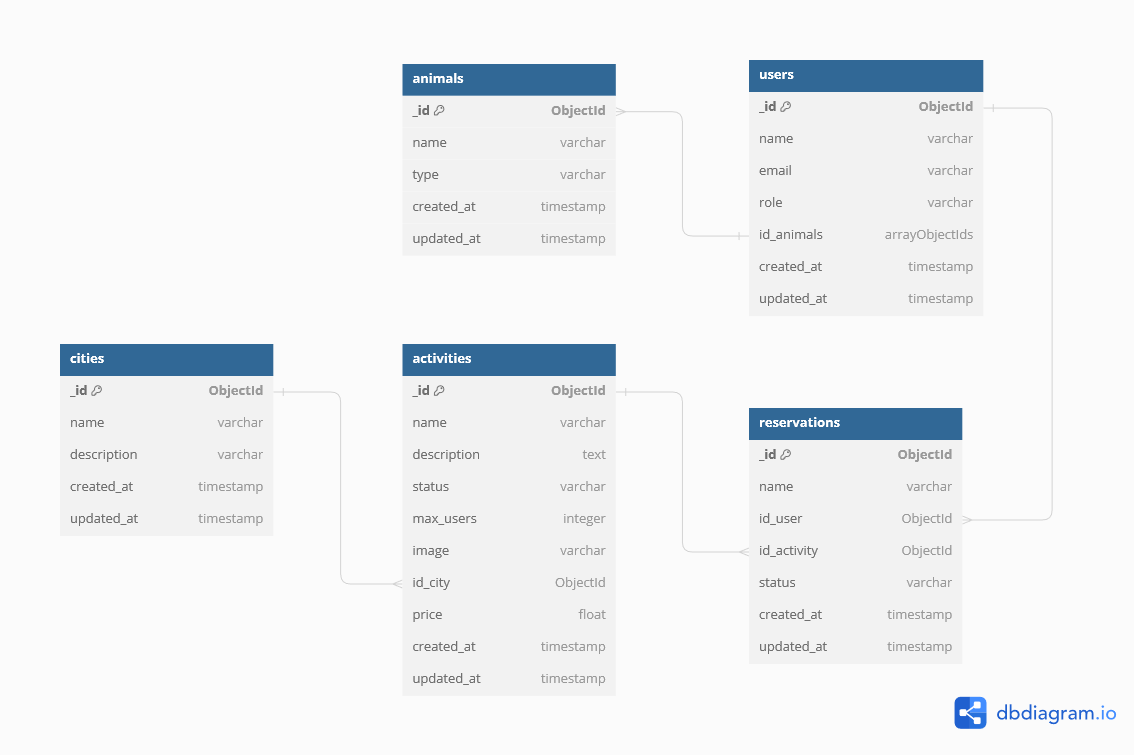
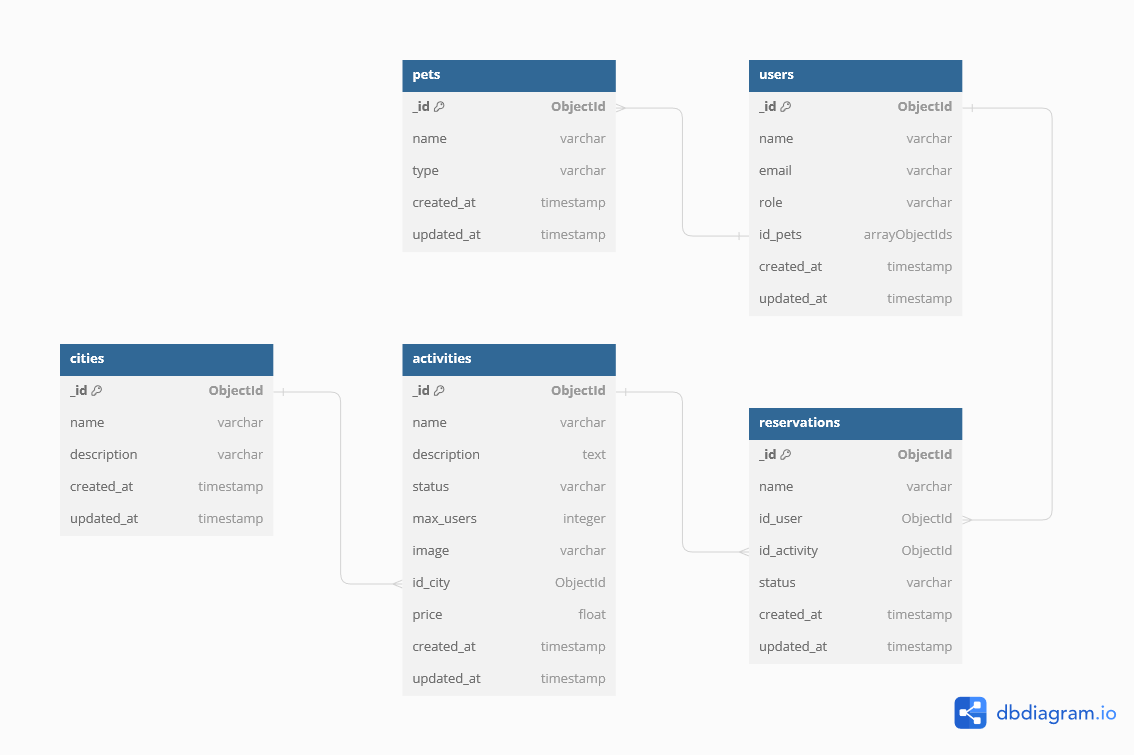
Pets and Activities CRUD tested

diff --git a/server/src/api/controllers/pet.controller.js b/server/src/api/controllers/pet.controller.js
@@ -1,0 +1,79 @@
+const Pet = require('../models/pet.model');
+
+const getAllPets = async (req, res) => {
+    try {
+        const allPets = await Pet.find(); // .populate('city_id')
+        res.status(200).json({ success: true, data: allPets });
+    } catch (error) {
+        res.status(400).json({ success: false, data: error.message });
+    }
+};
+
+const getPetbyId = async (req, res) => {
+    try {
+        const { id } = req.params;
+        const filteredPet = await Pet.findById(id); // .populate('city_id')
+        if (!filteredPet) {
+            res.status(202).json({ success: false, data: 'That ID does NOT exist.' });
+        } else {
+            res.status(200).json({ success: true, data: filteredPet });
+        }
+    } catch (error) {
+        res.status(400).json({ success: false, data: error.message });
+    }
+}
+
+const newPet = async (req, res) => {
+    try {
+        const newPet = new Pet(req.body);
+        const findPet = await Pet.find({ name: newPet.name });
+
+        if (findPet.length === 0) {
+            const createdPet = await newPet.save();
+            return res.status(201).json({ success: true, data: createdPet });
+        } else {
+            return res.status(200).json({ success: false, data: 'Pet already exists!' });
+        }
+    } catch (error) {
+        return res.status(400).json({ success: false, data: error.message });
+    }
+}
+
+const deletePet = async (req, res) => {
+    try {
+        const { id } = req.params;
+        if (id) {
+            const deletedPet = await Pet.findByIdAndDelete(id);
+            if (!deletedPet) {
+                return res.status(202).json({ success: false, data: 'That ID does NOT exist.' });
+            } else {
+                return res.status(200).json({ success: true, message: 'Pet deleted successfully!', data: deletedPet });
+            }
+        } else {
+            return res.status(202).json({ success: false, data: 'You have to define an ID' });
+        }
+    } catch (error) {
+        return res.status(400).json({ success: false, data: error.message });
+    }
+};
+
+const updatePet = async (req, res) => {
+    try {
+        const { id } = req.params;
+        const updateBody = req.body;
+        if (id) {
+            const updatedPet = await Pet.findByIdAndUpdate(id, updateBody, { new: true });
+            if (!updatedPet) {
+                return res.status(202).json({ success: false, data: 'That ID does NOT exist.' });
+            } else {
+                return res.status(200).json({ success: true, message: 'Pet updated successfully!', data: updatedPet });
+            }
+        } else {
+            return res.status(202).json({ success: false, data: 'You have to define an ID' });
+        }
+    } catch (error) {
+        return res.status(400).json({ success: false, data: error.message });
+    }
+};
+
+module.exports = { getAllPets, getPetbyId, newPet, deletePet, updatePet };

diff --git a/server/src/api/models/activity.model.js b/server/src/api/models/activity.model.js
@@ -1,7 +1,7 @@
 const mongoose = require('mongoose');
 const Schema = mongoose.Schema;
 
-const userSchema = new Schema({
+const activitySchema = new Schema({
     name: { type: String, require: true, unique: true },
     description: { type: String, require: true },
     image: { type: String, require: true },
@@ -18,5 +18,5 @@ const userSchema = new Schema({
     }
 );
 
-const User = mongoose.model('activities', userSchema);
-module.exports = User;
+const Activity = mongoose.model('activities', activitySchema);
+module.exports = Activity;

diff --git a/server/index.js b/server/index.js
@@ -23,7 +23,7 @@ const routeActivity = require('./src/api/routes/activity.routes');
 const routeReservation = require('./src/api/routes/reservation.routes');
 const routeUser = require("./src/api/routes/user.routes")
 
-server.use('/api/animals', routePet);
+server.use('/api/pets', routePet);
 server.use('/api/cities', routeCity);
 server.use('/api/activities', routeActivity);
 server.use('/api/reservations', routeReservation);

diff --git a/server/src/api/routes/pet.routes.js b/server/src/api/routes/pet.routes.js
@@ -1,0 +1,12 @@
+const express = require('express');
+const { getAllPets, getPetbyId, newPet, deletePet, updatePet } = require('../controllers/pet.controller');
+
+const routePet = express.Router();
+
+routePet.get('/all', getAllPets);
+routePet.get('/:id', getPetbyId);
+routePet.post('/new', newPet);
+routePet.delete('/delete/:id', deletePet);
+routePet.put('/update/:id', updatePet);
+
+module.exports = routePet;

diff --git a/server/src/api/models/pet.model.js b/server/src/api/models/pet.model.js
@@ -1,0 +1,15 @@
+const mongoose = require('mongoose');
+const Schema = mongoose.Schema;
+
+const petSchema = new Schema({
+    name: { type: String, require: true },
+    type: { type: String, require: true, enum: ['cat', 'dog'] }
+},
+    {
+        collection: 'pets',
+        timestamps: true // createdAt + updatedAt
+    }
+);
+
+const Pet = mongoose.model('pets', petSchema);
+module.exports = Pet;

diff --git a/server/README.md b/server/README.md
@@ -2,12 +2,12 @@
 
 ## Endpoints MVP
 
-### Animales (Daniela / Carolina)
+### Mascotas (Daniela / Carolina)
 1. getAll
-2. getAnimalbyId
-3. newAnimal
-4. updateAnimal
-5. deleteAnimal
+2. getPetbyId
+3. newPet
+4. updatePet
+5. deletePet
 
 ### Ciudades (Carolina)
 1. getAll
